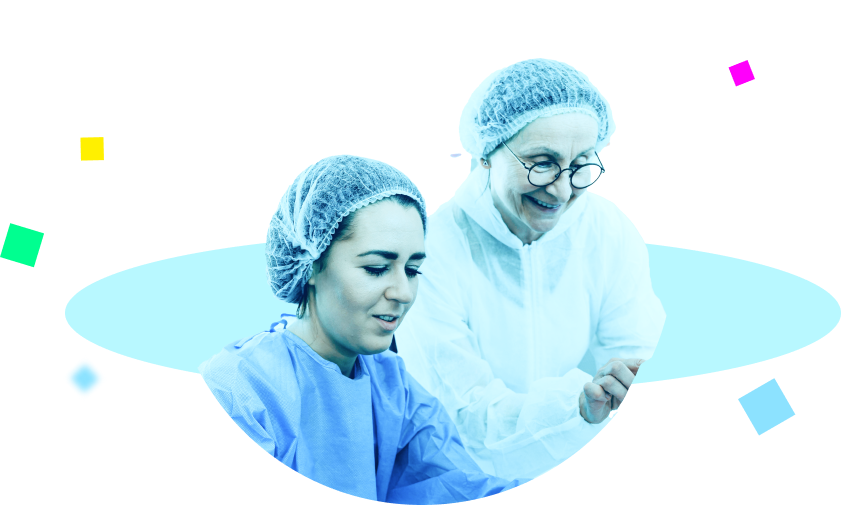
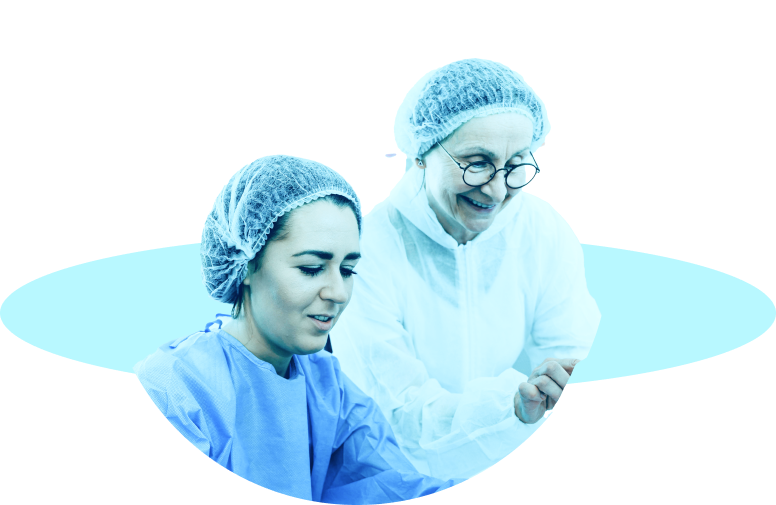
add animation to provider-network in services page

diff --git a/src/components/services/ProviderNetworkSection.tsx b/src/components/services/ProviderNetworkSection.tsx
@@ -18,6 +18,16 @@ const ProviderNetworkSection = () => {
               priority
               sizes="(max-width: 768px) 100vw, (max-width: 1024px) 80vw, 75vw"
             />
+            {/* Animated squares */}
+            {/* Left side squares */}
+            <div className="absolute top-0 -left-2 w-5 h-5 bg-yellow-300 animate-float opacity-80"></div>
+            <div className="absolute top-1/2 -translate-y-10 -left-8 w-6 h-6 bg-[#00FF90] animate-float-delay opacity-80"></div>
+            <div className="absolute  left-8 w-4 h-4 bg-[#8CE2FF] animate-float blur-[2px] opacity-80"></div>
+            
+            {/* Right side squares */}
+            <div className="absolute top-15 -right-8 w-5 h-5 bg-[#FF00FB] animate-float-delay opacity-80"></div>
+            <div className="absolute top-2/3 -right-8 w-6 h-6 bg-[#8CE2FF] animate-float  opacity-80"></div>
+          
           </div>
         </div>
         <p className="text-[#00313B] text-center font-roboto text-[1rem] md:text-[1.125rem] font-normal leading-[1.25rem] md:leading-[1.5rem] max-w-2xl mx-auto px-4 md:px-0">
